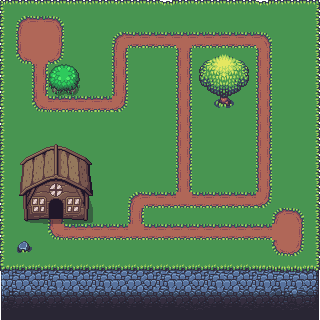
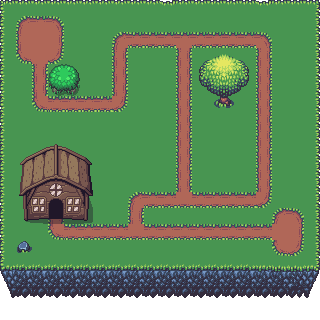
añadido fondo

Changed region(s): [[0.0, 0.8438, 1.0, 1.0]]

diff --git a/js/player.js b/js/player.js
@@ -17,27 +17,7 @@ function Player(game) {
 
   this.hasKey = false;
 
-  this.actions = {
-    top: {
-      yFrameInd: 2,
-      yIncrement: -1
-    },
-    right: {
-      yFrameInd: 1,
-      xIncrement: 1
-    },
-    down: {
-      yFrameInd: 0,
-      yIncrement: 1
-    },
-    left: {
-      yFrameInd: 3,
-      xIncrement: -1
-    },
-    stop: {
-      yFrameInd: 0
-    }
-  }
+  this.setNormalActions();
 
   this.updateSize();
 }
@@ -67,6 +47,8 @@ Player.prototype.draw = function () {
   if (this.game.map.getElementAt(this.x, this.y) === 'obstacle') {
     this.game.reset();
   }
+  
+
 
   // this.animateImg();
 };
@@ -84,7 +66,7 @@ Player.prototype.do = function (action) {
   currentAction.hasOwnProperty('yFrameInd') ? this.img.yFrameIndex = currentAction.yFrameInd : 0;
   currentAction.hasOwnProperty('yIncrement') ? newY += currentAction.yIncrement : 0;
   currentAction.hasOwnProperty('xIncrement') ? newX += currentAction.xIncrement : 0;
-  (action!=='stop'?this.update(newX, newY):0);
+  (action !== 'stop' ? this.update(newX, newY) : 0);
 }
 
 Player.prototype.animateImg = function () {
@@ -104,8 +86,12 @@ Player.prototype.getItem = function (item) {
       this.hasKey = true;
       break;
     case 'house':
-      this.game.openHouse(this.hasKey);
+      this.game.openHouse();
       break;
+  }
+  if (item !== 'house') {
+    delete this.game.map.items[item];
+    this.game.maps.getItem(item);
   }
 };
 
@@ -126,13 +112,43 @@ Player.prototype.update = function (posX, posY) {
     case null:
       break;
     default:
-      itemName = this.game.map.getElementAt(posX, posY)
+      itemName = this.game.map.getElementAt(posX, posY);
       this.setPosition([posX, posY]);
-      delete this.game.map.items[itemName];
-      this.getItem(this.game.map.getElementAt(posX, posY));
-      this.game.maps.getItem(itemName);
+      this.getItem(itemName);
+
   }
   this.animateImg();
 };
+
+Player.prototype.setNormalActions = function () {
+  this.actions = {
+    top: {
+      yFrameInd: 2,
+      yIncrement: -1
+    },
+    right: {
+      yFrameInd: 1,
+      xIncrement: 1
+    },
+    down: {
+      yFrameInd: 0,
+      yIncrement: 1
+    },
+    left: {
+      yFrameInd: 3,
+      xIncrement: -1
+    },
+    stop: {
+      yFrameInd: 0
+    }
+  }
+}
+
+// Player.prototype.setDoAction(continuos)
+// // Player.prototype.setLeftRightChangedActions = function () {
+// //   var tempAction = this.actions.right;
+// //   this.actions.right=this.actions.left;
+// //   this.actions.left=tempAction;
+// // }
 
 

diff --git a/js/background.js b/js/background.js
@@ -1,0 +1,60 @@
+function Background(canvadId) {
+  this.canvas = document.getElementById(canvadId);
+  this.ctx = this.canvas.getContext("2d");
+  this.backgroundImg=new Image();
+  this.fps=60;
+  this.backgroundImg.src="img/water.png";
+  this.seaFoamImg=new Image();
+  this.seaFoamImg.src="img/seafoam.png";
+  this.seaFoamXFrames=11;
+  this.seaFoamYFrames=2;
+  this.tileWidth=16;
+  this.tileHeight=0.5;
+  this.xTiles=Math.ceil(this.canvas.width/this.tileWidth);
+  this.yTiles=Math.ceil(this.canvas.height/this.tileWidth);
+
+}
+
+
+Background.prototype.start=function(){
+  
+  this.draw();
+  this.drawFoamSquares();
+  
+  this.interval = setInterval(function () {
+
+    this.framesCounter++;
+
+    if (this.framesCounter > 1000) {
+      this.framesCounter = 0;
+    }
+
+  }.bind(this), 1000/this.fps);
+}
+
+
+// Background.prototype.drawFirst()= function{
+
+// }
+
+Background.prototype.draw=function(){
+  this.ctx.drawImage(this.backgroundImg,0,0,this.canvas.clientWidth,this.canvas.height);
+}
+
+Background.prototype.drawFoamSquares= function(){
+  for (var i=0;i<100;i++){
+    for (var j=0;j<100;j++){
+      console.log(`i:${i},j:${j}`)
+      this.ctx.drawImage(this.seaFoamImg,
+        0,
+        0,
+        this.seaFoamImg.width/this.seaFoamXFrames,
+        this.seaFoamImg.height/this.seaFoamYFrames,
+        j*this.tileWidth,
+        i*this.tileHeight,
+        this.tileWidth,
+        this.tileWidth);
+    }
+  }
+  
+}

diff --git a/js/eventsManager.js b/js/eventsManager.js
@@ -15,7 +15,7 @@ EventsManager.prototype.setNormalKeyBoardKeys = function () {
   this.keyboardKeys.down = 40;
 }
 
-EventsManager.prototype.setNormalPlayerListeners = function (player) {
+EventsManager.prototype.setPlayerListeners = function (player) {
   document.onkeydown = function (event) {
     event.preventDefault();
     var key = event.keyCode;
@@ -44,5 +44,5 @@ EventsManager.prototype.setNormalPlayerListeners = function (player) {
 }
 
 EventsManager.prototype.setListeners=function(){
-  this.game.player.setListeners=this.setNormalPlayerListeners(this.game.player);
+  this.game.player.setListeners=this.setPlayerListeners(this.game.player);
 }

diff --git a/js/game.js b/js/game.js
@@ -37,7 +37,6 @@ Game.prototype.reset = function () {
 
 
 Game.prototype.drawAll = function () {
-  this.ctx.fillRect(0,0,this.canvas.width, this.canvas.height);
   this.map.draw();
   this.player.draw();
 };
@@ -50,8 +49,8 @@ Game.prototype.changeToMap = function (mapIndex) {
   
 };
 
-Game.prototype.openHouse= function(hasKey){
-  if (hasKey){
+Game.prototype.openHouse= function(){
+  if (this.player.hasKey){
     alert("has ganado");
     this.reset();
   }

diff --git a/index.html b/index.html
@@ -15,6 +15,7 @@
   <link rel="stylesheet" type="text/css" href="css/style.css">
 </head>
 <body>
-  <canvas id="myCanvas" width="700" height="700"></canvas>
+  <div id="content"><canvas id="myCanvas" width="700" height="700"></canvas></div>
 </body>
 </html>
+

diff --git a/css/style.css b/css/style.css
@@ -1,0 +1,16 @@
+*{
+  margin:0;
+  padding: 0;
+}
+
+
+#content{
+  width:100vw;
+  display:flex;
+  justify-content: center;
+  
+  background-image:url("../img/fondo.png");
+  background-size: cover; 
+}
+
+

diff --git a/js/index.js b/js/index.js
@@ -1,5 +1,4 @@
 window.onload = function() {
   var game = new Game("myCanvas");
-
   game.start();
 };
